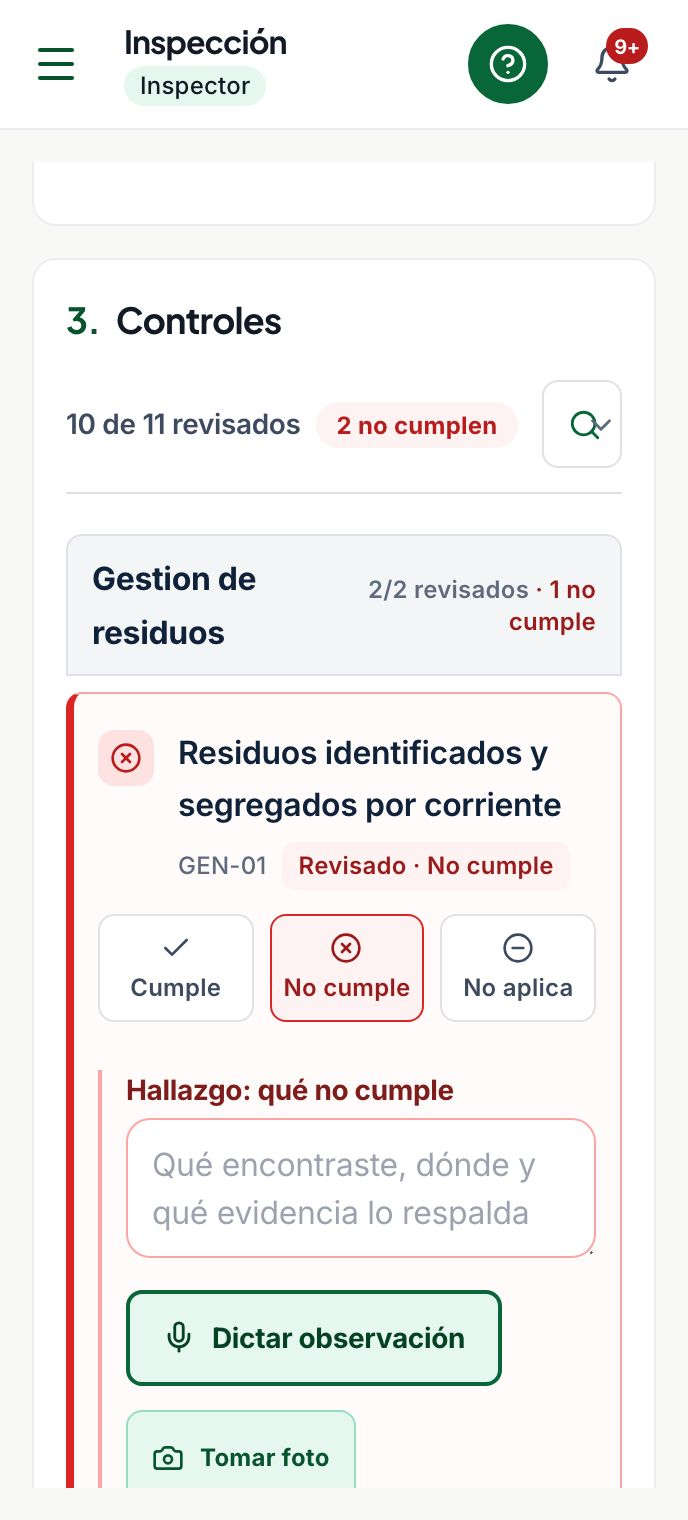
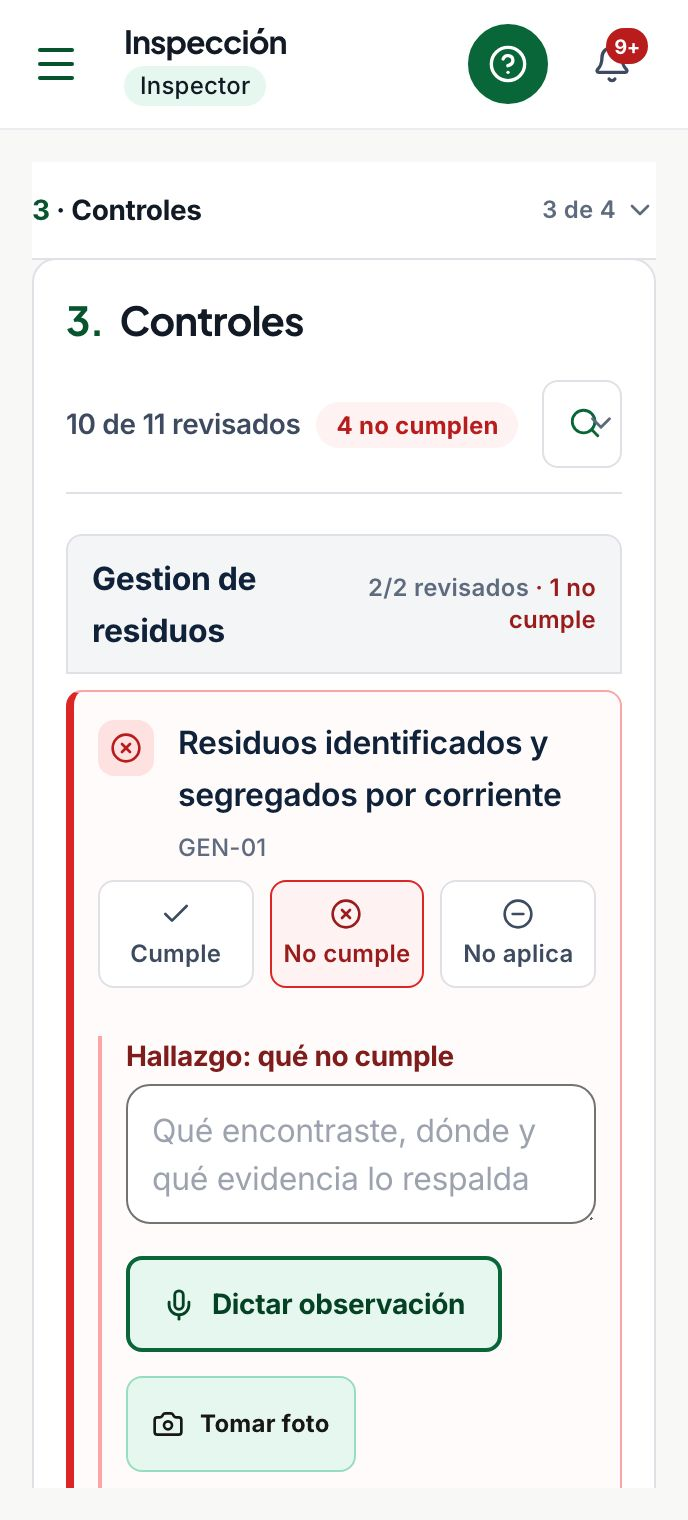
docs(inspections): second pass of the field sheet: radius map, closing questions, field diet, measurements [skip ci]

diff --git a/docs/INSPECCION-HOJA-UNICA-20261104.md b/docs/INSPECCION-HOJA-UNICA-20261104.md
@@ -65,10 +65,40 @@ Nota sobre la medición: una primera versión del script elegía «la primera ta
 
 Capturas: `hoja-344-arriba.jpg` (bloque 1 con el mapa y la cruz), `hoja-344-controles.jpg` (lista plana), `hoja-344-control-respondido.jpg` (hallazgo abierto debajo del control, sin mover la página), `hoja-344-pie.jpg` (estado de guardado, pendientes y el único botón), `hoja-web-1365.jpg` (escritorio, con la barra lateral de administración que no se tocó).
 
+## Segunda vuelta · 04/11, tarde (commits `347988ad`, `54473795`)
+
+Prueba del usuario sobre la primera hoja: el mapa seguía siendo impracticable («el punto puede ser una zona», «marco un vértice y tengo que bajar a describirlo»), no había una referencia fija de dónde está uno, los campos no se distinguían de la página y «al final agrega 15 campos más, todos obligatorios».
+
+Inventario previo: unas 60 entradas visibles en el caso GRP. Sólo los 11 controles y los 6 datos del contraste son obligatorios para enviar a revisión; seis constancias (daños, testigos, firma, copia, libro, comunicación) las exige después la aprobación.
+
+Qué cambió:
+
+- **Mapa «Estoy acá».** Un botón toma el GPS y marca el punto; con eso alcanza. Si no hay señal, la cruz y «Marcar el punto aquí». Debajo, «¿El predio es más grande que un punto?» con radios de 50 m a 1 km u otro valor: el punto crece a un círculo (`radioMetros`, guardado también como polígono de 24 vértices para que el acta y el PDF sigan igual; el PDF lo resume como «radio de X m»). Las referencias se marcan con la cruz y su tipo y descripción aparecen pegados al mapa, no al final. Desaparecieron los modos Punto/Sector/Referencias y el trazado por vértices; un trazado anterior se muestra hasta que se lo reemplaza o se lo quita.
+- **Barra fija.** Una línea pegada arriba dice el bloque bajo el dedo («3 · Controles · 3 de 4») y al tocarla lista los cuatro para saltar. Sólo lee la posición; nunca escribe el scroll.
+- **Recorte de campos.** Bloque 1: mapa, número de acta, quién atiende (nombre, cargo) y motivo; DNI, correo, pedido de copia, dirección e inspector plegados en «Más datos». Bloque 2: texto con dictado y fotos; actividad, instalaciones y entorno plegados en «Más detalle del lugar». Bloque 3: controles, contraste y requerimientos (tres campos cada uno; responsable y cómputo por defecto). Bloque 4 «Cerrar la visita»: las seis constancias como preguntas de un toque (`InspectionClosingQuestions.tsx`) que abren un detalle sólo si la respuesta lo pide; el resto de los datos administrativos del acta plegado y sin repetir esas seis. La dirección declarada y el domicilio legal se completan solos una vez.
+- **Contraste visual.** Campos con borde oscuro y fondo blanco, etiquetas en negrita, tarjetas de bloque sobre la página (`index.css`, `.inspection-field-sheet`). Tarjetas de control sin la etiqueta «Revisado · Cumple», redundante con el botón marcado.
+
+Pruebas en el laboratorio: tipos de frontend y backend limpios; backend 16/16 (modelo, geometría, mapa, PDF del acta); frontend 58/58 en mapa, preguntas de cierre, expediente, reinicio, panel de documentos y contraste.
+
+Mediciones (`measurements.json`, capturas `hoja-344-*.jpg`, `hoja-web-1365.jpg`), caso GRP-2026-00001:
+
+| Métrica | Mañana | Tarde, app 344 | Tarde, web 1365 |
+|---|---|---|---|
+| Entradas visibles sin abrir desplegables | ~60 | 20 (incluye los detalles ya cargados en el caso) | 20 |
+| Acordeones | 0 | 0 (sólo los dos índices de búsqueda) | 0 |
+| Barra fija de bloque | no | sí | sí |
+| Radio del predio | no | 6 opciones + otro | igual |
+| Al marcar «No cumple» | 0 px | 0 px | — |
+| Bloqueo táctil del mapa | verificado | verificado | — |
+| Alto total | 12 999 px | 14 451 px: Estoy acá 2 948 (el caso tiene 5 referencias y un trazado anterior), Qué encontré 1 254, Controles 7 901, Cerrar 1 660 | 12 398 px |
+
+El alto no bajó: lo que domina es el bloque Controles (11 controles y 6 datos del contraste con su detalle abierto), que es el trabajo de campo en sí; las preguntas de cierre y las referencias inline agregan lo que los desplegables ahorran.
+
 ## Límites y pendientes
 
 - La barra lateral de administración en la web de escritorio no se tocó: pertenece al trabajo de Inicio y lista por rol de la sesión paralela.
 - Los enlaces de la lista de pendientes («1 controles obligatorios pendientes») llevan al comienzo del bloque, no a la tarjeta pendiente; con 11 controles el inspector la busca. Próximo paso: que el enlace apunte a la primera tarjeta pendiente.
+- El alto de la hoja (unas 19 pantallas a 344 px) sigue siendo el de la lista de controles y el contraste. Si en campo pesa, el próximo paso es una tarjeta de control de una sola línea (título y tres botones) y el contraste con el valor declarado plegado.
 - Las descripciones de foto se deshabilitan mientras se guarda el borrador (cada 1,5 s tras un cambio); escribir allí durante un guardado puede perder teclas. Baja frecuencia; pendiente.
 - Cada vértice nuevo dispara, 2,5 s después, la descarga de unas 12 teselas y la preparación de la imagen del acta, más el guardado automático. En campo con señal débil conviene observarlo.
 - Los dos archivos de prueba que ya fallaban antes (`InspectionInlineSave.test.tsx`, «Guardar y salir de la inspección»; `InspectionWorkspace.keyboard.test.tsx`, barra fija) ahora contradicen el diseño aprobado. Siguen fuera del arnés. Decisión pendiente: actualizarlos o retirarlos.
